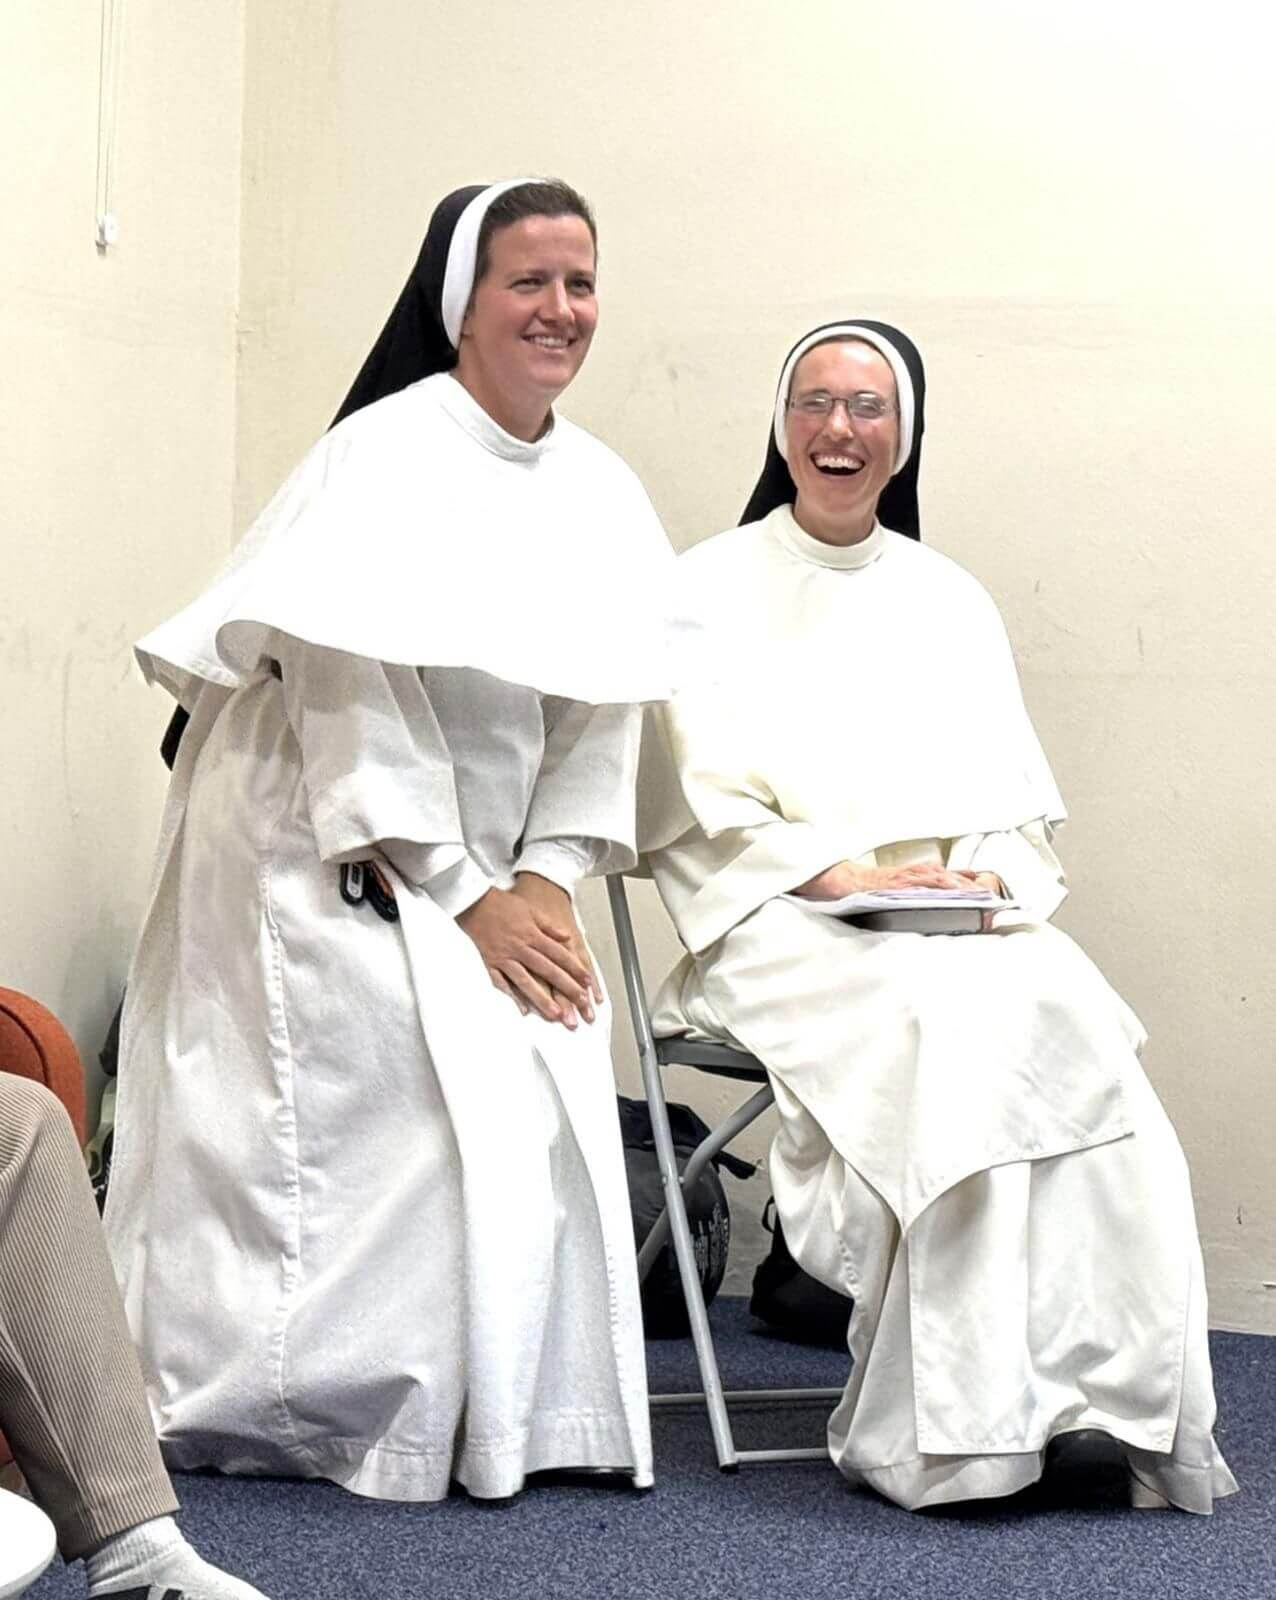
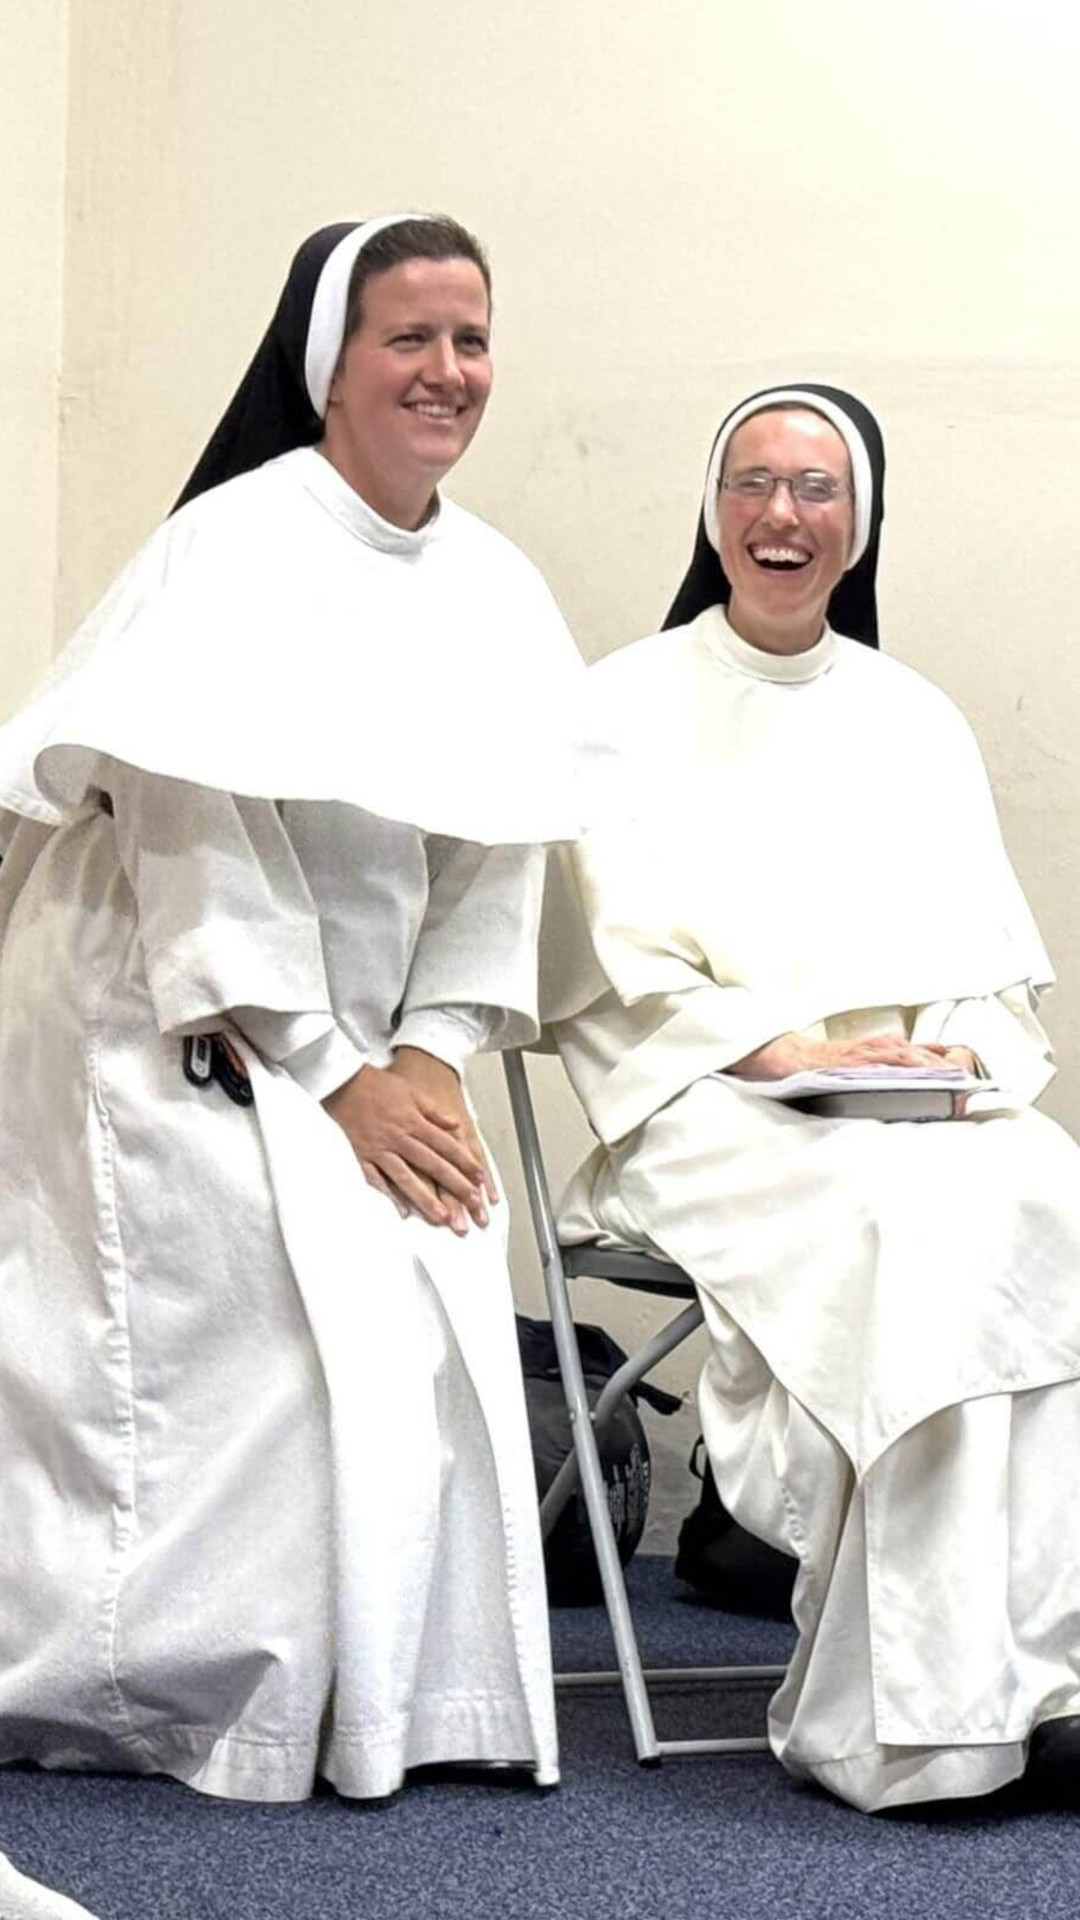
feat: Implement progressive image loading and UI refinements
Introduces lazy loading for gallery images using Intersection Observer and Low-Quality Image Placeholders (LQIP) to improve performance and user experience.

Further enhances the user interface by:
- Expanding the pool of testimonies and randomizing which ones are displayed.
- Applying consistent background and border styling across various page sections (Adoration, Contact, Revive Weekends, Our Story).
- Updating the 'Our Story' section's image layout for improved responsiveness.
- Refreshing general image assets.

diff --git a/client/src/app/user/gallery/gallery.component.ts b/client/src/app/user/gallery/gallery.component.ts
@@ -1,10 +1,19 @@
-import { ChangeDetectionStrategy, Component, inject, signal } from "@angular/core"
+import { AfterViewInit, ChangeDetectionStrategy, Component, ElementRef, OnDestroy, QueryList, ViewChildren, inject, signal, Renderer2 } from "@angular/core"
 import { NgbModal, NgbModalModule } from "@ng-bootstrap/ng-bootstrap"
 import { IconComponent } from "@revive/src/app/icon/icon.component"
 import { ExpandedImageComponent } from "@components/expanded-image/expanded-image.component"
 import { NavbarComponent } from "../components/navbar/navbar.component"
 import { FooterComponent } from "../components/footer/footer.component"
 import { VideoModalComponent } from "../components/video-modal/video-modal.component"
+
+type MediaItem = {
+  url: string
+  type: "image" | "video"
+  lqip?: string
+  src?: string
+  srcset?: string
+  sizes?: string
+}
 
 @Component ( {
   selector: "app-gallery",
@@ -18,7 +27,9 @@ import { VideoModalComponent } from "../components/video-modal/video-modal.compo
   styleUrl: "./gallery.component.scss",
   changeDetection: ChangeDetectionStrategy.OnPush
 } )
-export class GalleryComponent {
+export class GalleryComponent implements AfterViewInit, OnDestroy {
+  @ViewChildren ( "galleryImg", { read: ElementRef } ) public images!: QueryList<ElementRef<HTMLImageElement>>
+
   // Simple in-component media list. Each item can be an image (jpg/png) or a video (mp4).
   public galleries = signal ( [
     { url: "dunoon/dunoon-", type: "jpg", gallery: "dunoon", number: 40, startingIndex: 1 },
@@ -28,23 +39,49 @@ export class GalleryComponent {
     { url: "skye/skye-", type: "jpg", gallery: "skye", number: 7, startingIndex: 1 },
   ] )
 
-  public filter = signal <"dunoon" | "kinloss" | "skye"> ( "dunoon" )
+  public filter = signal<"dunoon" | "kinloss" | "skye"> ( "dunoon" )
 
   private readonly modalSvc: NgbModal = inject ( NgbModal )
+  private readonly renderer: Renderer2 = inject ( Renderer2 )
 
-  public get filtered ( ) {
+  private io: IntersectionObserver | null = null
+
+  public get filtered ( ): MediaItem [ ] {
     const f = this.filter ( )
     // Calculate all media urls based on the gallery definitions and types and starting index
-    // for example array of strings: dunoon/dunoon-1.jpg, dunoon/dunoon-2.jpg, ..., dunoon/dunoon-40.jpg, dunoon/dunoon-41.mp4, kinloss/kinloss-1.jpg, ..., skye/skye-7.jpg
-    const media = [ ]
+    const media: MediaItem [ ] = [ ]
     for ( const gallery of this.galleries ( ) ) {
       if ( gallery.gallery === f ) {
         for ( let i = 0; i < gallery.number; i++ ) {
-          media.push ( { url: gallery.url + ( gallery.startingIndex + i ) + "." + gallery.type, type: gallery.type === "mp4" ? "video" : "image" } )
+          const url = gallery.url + ( gallery.startingIndex + i ) + "." + gallery.type
+          if ( gallery.type === "mp4" ) {
+            media.push ( { url, type: "video" } )
+          } else {
+            // Prepare LQIP and responsive srcset
+            const lqip = `/api/img/${url}?w=40&f=webp&q=20`
+            const src = `/api/img/${url}?w=800&f=webp`
+            const srcset = `/api/img/${url}?w=400&f=webp 400w, /api/img/${url}?w=800&f=webp 800w, /api/img/${url}?w=1200&f=webp 1200w`
+            const sizes = `(max-width:600px) 100vw, 33vw`
+            media.push ( { url, type: "image", lqip, src, srcset, sizes } )
+          }
         }
       }
     }
     return media
+  }
+
+  public ngAfterViewInit ( ): void {
+    this.initializeObserver ( )
+    this.observeImages ( )
+    // re-observe when QueryList changes (e.g., filter changes)
+    this.images.changes.subscribe ( ( ) => this.observeImages ( ) )
+  }
+
+  public ngOnDestroy ( ): void {
+    if ( this.io ) {
+      try { this.io.disconnect ( ) } catch { /* ignore */ }
+      this.io = null
+    }
   }
 
   public openImage ( index: number ) {
@@ -61,5 +98,49 @@ export class GalleryComponent {
 
   public setFilter ( f: "dunoon" | "kinloss" | "skye" ) {
     this.filter.set ( f )
+    // When filter changes, images QueryList will update; ensure observer re-attaches
+    // small timeout allows view to update before observing
+    setTimeout ( ( ) => this.observeImages ( ), 0 )
+  }
+
+  private initializeObserver ( ) {
+    if ( this.io ) return
+    this.io = new IntersectionObserver ( entries => {
+      for ( const entry of entries ) {
+        if ( !entry.isIntersecting ) continue
+        const img = entry.target as HTMLImageElement
+        const dataSrc = img.getAttribute ( "data-src" )
+        const dataSrcset = img.getAttribute ( "data-srcset" )
+        if ( dataSrc ) this.renderer.setAttribute ( img, "src", dataSrc )
+        if ( dataSrcset ) this.renderer.setAttribute ( img, "srcset", dataSrcset )
+        this.renderer.removeClass ( img, "progressive" )
+        this.io!.unobserve ( img )
+      }
+    }, { rootMargin: "300px 0px", threshold: 0.01 } )
+  }
+
+  private observeImages ( ) {
+    if ( !this.images ) return
+    // ensure observer exists
+    this.initializeObserver ( )
+    // unobserve any previously observed nodes
+    if ( this.io ) {
+      try { this.io.disconnect ( ) } catch { /* ignore */ }
+    }
+    for ( const el of this.images.toArray ( ) ) {
+      const img = el.nativeElement as HTMLImageElement
+      // If image already has been upgraded to real src, skip
+      if ( img.getAttribute ( "data-loaded" ) === "1" ) continue
+      // set data attributes if not already set (handles SSR or re-render)
+      const dataSrc = img.getAttribute ( "data-src" )
+      if ( !dataSrc ) {
+        const url = img.getAttribute ( "data-url" )
+        if ( url ) {
+          this.renderer.setAttribute ( img, "data-src", `/api/img/${url}?w=800&f=webp` )
+          this.renderer.setAttribute ( img, "data-srcset", `/api/img/${url}?w=400&f=webp 400w, /api/img/${url}?w=800&f=webp 800w, /api/img/${url}?w=1200&f=webp 1200w` )
+        }
+      }
+      this.io!.observe ( img )
+    }
   }
 }

diff --git a/client/src/app/user/components/testimony/testimony.component.ts b/client/src/app/user/components/testimony/testimony.component.ts
@@ -9,20 +9,56 @@ import { ChangeDetectionStrategy, Component } from "@angular/core"
 export class TestimonyComponent {
   public testimonies = [
     {
-      name: "Retreat Participant, Largs 2023",
+      name: "Largs - 2023",
       testimony: "'I loved the talks and company and the overall structure of the retreat. Incredible experience.'"
     },
     {
-      name: "Revive Weekend Participant, Hawick 2023",
+      name: "Hawick - 2023",
       testimony: "'This has made me want to create better friendships and discipleship in our parishes and to become a light for our communities'"
     },
     {
-      name: "Revive Weekend Participant, Largs 2023",
+      name: "Largs - 2023",
       testimony: "'There was a lot of time for adoration and the games were great fun, the talks were amazing and it was a great choice of topics and speakers'"
     },
     {
-      name: "Revive Weekend Participant, Largs 2023",
+      name: "Largs - 2023",
       testimony: "'The schedule was well organised, the food was well-organised and the talks were very interesting – I loved the testimonies from the priests'"
+    },
+    {
+      name: "Dunoon - 2026",
+      testimony: "The content has given me a new perspective  on scripture, the mass and liturgy which helps me to appreciate more fully its inherent beauty"
+    },
+    {
+      name: "Dunoon - 2026",
+      testimony: "I have grown in a deeper understanding of a relationship with God and others"
+    },
+    {
+      name: "Dunoon - 2026",
+      testimony: "I had new revelations about my faith and how I can grow and improve my relationship with God and others"
+    },
+    {
+      name: "Dunoon - 2026",
+      testimony: "This weekend made me rediscover myself in the light of God and the needs I can work on! Thank you so much for organising, I really enjoyed being a part of this community"
+    },
+    {
+      name: "Dunoon - 2026",
+      testimony: "I have learnt so much over the weekend. Going into detail about dissonant needs has helped me clarify things to address in my own life and how to work on them. I found this retreat very fruitful"
+    },
+    {
+      name: "Dunoon - 2026",
+      testimony: "I have been able to surrender to the will of God more"
+    },
+    {
+      name: "Dunoon - 2026",
+      testimony: "Finding out how men and women most closely imitate the Blessed Trinity when they're embracing in marital union was so healing and such a beautiful truth that has been revealed to me this weekend! Thank you so much for all the work you put into organising this wonderful retreat. It has been such a gift to be a part of it"
+    },
+    {
+      name: "Dunoon - 2026",
+      testimony: "Very profound encounter with the goodness of God and His plan for human relationships, marriage and liturgy. Father's talks were deep but relatable and I loved the vulnerability of the men's groups discussion. So much food to take to prayer Such a great weekend, thank you so much"
     }
   ]
+
+  public get randomTestimonies () {
+    return this.testimonies.sort ( () => 0.5 - Math.random ( ) ).slice ( 0, 4 )
+  }
 }

diff --git a/client/src/app/user/components/our-story/our-story.component.html b/client/src/app/user/components/our-story/our-story.component.html
@@ -1,21 +1,22 @@
 <div class="row align-items-stretch gx-0">
-  <div class="col-12 col-lg-6 half-page-banner min-height-300 align-content-center">
-    <img
-      src="/api/img/kinloss/kinloss-8.jpg?w=640&f=webp"
-      srcset="
-        /api/img/kinloss/kinloss-8.jpg?w=320&f=webp 320w,
-        /api/img/kinloss/kinloss-8.jpg?w=640&f=webp 640w,
-        /api/img/kinloss/kinloss-8.jpg?w=1024&f=webp 1024w
-      "
-      sizes="(max-width: 600px) 100vw, 600px"
-      alt="Our Story Banner"
-      loading="lazy"
-      decoding="async"
-      class="w-100 object-fit-contain"
-    />
+  <div class="col-12 col-lg-6 d-flex flex-column">
+    <div class="half-page-banner w-100 flex-grow-1 d-flex flex-column">
+      <img
+        src="/api/img/kinloss/kinloss-8.jpg?w=640&f=webp"
+        srcset="
+          /api/img/kinloss/kinloss-8.jpg?w=320&f=webp 320w,
+          /api/img/kinloss/kinloss-8.jpg?w=640&f=webp 640w,
+          /api/img/kinloss/kinloss-8.jpg?w=1024&f=webp 1024w
+        "
+        sizes="(max-width: 600px) 100vw, 600px"
+        alt="Our Story Banner"
+        loading="lazy"
+        decoding="async"
+      />
+    </div>
   </div>
-  <div class="col-12 col-lg-6 order-lg-first">
-    <div class="h-100 d-flex flex-column p-5 justify-content-center">
+  <div class="col-12 col-lg-6 order-lg-first secondary-bg border-end">
+    <div class="d-flex flex-column p-5 justify-content-center">
       <p class="text-serif text-primary mb-0">About Us</p>
       <h2 class="text-uppercase">Our Story</h2>
       <ul class="list-check ps-0">

diff --git a/client/src/app/user/gallery/gallery.component.html b/client/src/app/user/gallery/gallery.component.html
@@ -5,9 +5,9 @@
     <div class="toolbar">
       <h2></h2>
       <div class="btn-group">
-        <button class="btn" [class.active]="filter() === 'dunoon'" (click)="setFilter('dunoon')">Dunoon</button>
-        <button class="btn" [class.active]="filter() === 'kinloss'" (click)="setFilter('kinloss')">Kinloss</button>
-        <button class="btn" [class.active]="filter() === 'skye'" (click)="setFilter('skye')">Skye</button>
+        <button class="btn btn-primary" [class.active]="filter() === 'dunoon'" (click)="setFilter('dunoon')">Dunoon</button>
+        <button class="btn btn-primary" [class.active]="filter() === 'kinloss'" (click)="setFilter('kinloss')">Kinloss</button>
+        <button class="btn btn-primary" [class.active]="filter() === 'skye'" (click)="setFilter('skye')">Skye</button>
       </div>
     </div>
 
@@ -16,7 +16,7 @@
         <div class="card" (click)="item.type === 'image' ? openImage($index) : openVideo(item.url)">
           <div class="thumb">
             @if ( item.type === 'image' ) {
-              <img [attr.src]="'/api/img/' + item.url + '?w=800&f=webp'" alt="Gallery image" loading="lazy" />
+              <img #galleryImg [attr.src]="item.lqip" [attr.data-url]="item.url" [attr.data-src]="item.src" [attr.data-srcset]="item.srcset" [attr.sizes]="item.sizes" alt="Gallery image" loading="lazy" class="progressive" />
             } @else {
               <div class="video-thumb">
                 <app-icon icon="play-circle" />

diff --git a/client/src/app/user/components/revive-weekends/revive-weekends.component.html b/client/src/app/user/components/revive-weekends/revive-weekends.component.html
@@ -1,7 +1,7 @@
-<div class="row align-items-stretch gx-0" id="weekends" style="background-color: var(--bs-secondary-bg);">
-  <div class="col-12 col-md-6 half-page-banner bg-cover bg-center min-height-300">
+<div class="row align-items-stretch gx-0" id="weekends">
+  <div class="col-12 col-md-6 half-page-banner bg-cover bg-center min-height-300 secondary-bg border-start">
     <div class="d-flex justify-content-center align-items-center w-100 h-100 border-start">
-      <video width="640" height="360" controls playsinline>
+      <video width="640" height="360" controls playsinline style="background-color: black;">
         <source src="/api/img/kinloss/kinloss-14.mp4" type="video/mp4" />
         <!-- <img src="/api/img/revive-weekends.jpg?w=640&f=webp"
           srcset="

diff --git a/client/src/app/user/components/adoration-missions/adoration-missions.component.html b/client/src/app/user/components/adoration-missions/adoration-missions.component.html
@@ -1,4 +1,4 @@
-<div class="row align-items-stretch gx-0" id="adoration" style="background-color: var(--bs-secondary-bg);">
+<div class="row align-items-stretch gx-0" id="adoration">
   <div class="col-lg-6 half-page-banner bg-cover bg-center min-height-300">
     <img src="/api/img/adoration.jpg?w=640&f=webp"
       srcset="
@@ -13,7 +13,7 @@
       class="w-100 h-100 object-fit-cover"
     />
   </div>
-  <div class="col-lg-6">
+  <div class="col-lg-6 secondary-bg border-start">
     <div class="d-flex flex-column p-5 justify-content-center text-lg-end">
       <div class="w-100">
         <p class="text-serif text-primary mb-0">

diff --git a/client/src/app/user/components/testimony/testimony.component.html b/client/src/app/user/components/testimony/testimony.component.html
@@ -1,10 +1,10 @@
 <div class="container-fluid p-0">
   <div class="row p-0 text-center align-items-stretch g-0">
-    @for (testimony of testimonies; track $index) {
+    @for (testimony of randomTestimonies; track $index) {
       <div class="col-lg-3 col-md-6">
         <div class="p-5 text-white h-100 bg-primary">
           <h3 class="h4">{{testimony.name}}</h3>
-          <p class="mb-0 text-small">{{testimony.testimony}}</p>
+          <blockquote class="mb-0 text-small fst-italic">“{{testimony.testimony}}”</blockquote>
         </div>
       </div>
     }

diff --git a/client/src/styles.scss b/client/src/styles.scss
@@ -41,6 +41,10 @@ html {
   background-color: var(--bs-secondary-bg);
 }
 
+.secondary-bg {
+  background-color: var(--bs-secondary-bg) !important;
+}
+
 :root {
   --bs-blue: #0d6efd;
   --bs-indigo: #6610f2;
@@ -252,4 +256,9 @@ tr.folder-drop-target {
 .nav-link.active {
   color: var(--bs-primary) !important;
   background-color: rgba(var(--bs-primary-rgb), 0.1) !important;
+}
+
+.active {
+  color: var(--bs-primary) !important;
+  background-color: rgba(var(--bs-primary-rgb), 0.1) !important
 }

diff --git a/client/src/app/user/components/our-story/our-story.component.scss b/client/src/app/user/components/our-story/our-story.component.scss
@@ -20,3 +20,29 @@
   left: 0;
   color: #3399FF;
 }
+
+.half-page-banner {
+  width: 100%;
+  overflow: hidden;
+}
+
+.half-page-banner img {
+  width: 100%;
+  height: 100%;
+  object-fit: contain;
+  object-position: center;
+  display: block;
+}
+
+@media (max-width: 991px) {
+  .half-page-banner img {
+    max-height: 500px;
+  }
+}
+
+@media (min-width: 992px) {
+  .half-page-banner {
+    height: 0;
+    min-height: 0;
+  }
+}

diff --git a/client/src/app/user/components/contact/contact.component.html b/client/src/app/user/components/contact/contact.component.html
@@ -1,5 +1,5 @@
 <div class="row align-items-stretch gx-0" id="contact">
-  <div class="col-12 col-lg-6 half-page-banner bg-cover bg-center min-height-300">
+  <div class="col-12 col-lg-6 half-page-banner bg-cover bg-center min-height-300 secondary-bg border-end">
     <img src="/api/img/contact.jpg?w=640&f=webp"
       srcset="
         /api/img/contact.jpg?w=320&f=webp 320w,
